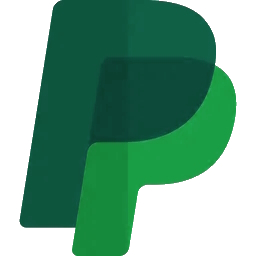
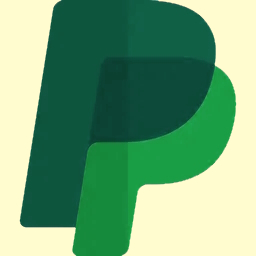
Fix paypal background color

diff --git a/dailyui2/index.js b/dailyui2/index.js
@@ -2,6 +2,7 @@ const button1 = document.querySelector("#card");
 const button2 = document.querySelector("#paypal")
 const choosetext = document.querySelector("#choosetext")
 const allInformation = document.querySelector("#cardInformation")
+const payPalIcon = document.querySelector("#payPalLink")
 
 
 
@@ -19,6 +20,4 @@ button2.addEventListener("click", function() {
     button1.classList.add("buttonsPhase2")
     button2.classList.add("buttonsPhase2")
     allInformation.classList.toggle("fadeOutClass")
-    // allInformation.style.visibility = "visible"
-    // allInformation.classList.add("cardInformationFade")
 })

diff --git a/dailyui2/index.css b/dailyui2/index.css
@@ -153,8 +153,14 @@ input {
 }
 
 #payPalLink {
-    scale: 0.5;
+    scale: 0.55;
     border: red solid 5px;
     text-align: center;
     margin-top: -350px;
+}
+
+.payPalLinkPhase2 {
+    scale: 0.95;
+    transform: translate(0, -135px);
+    transition: all ease 1s;
 }
